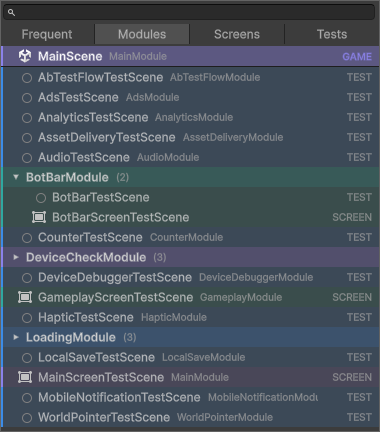
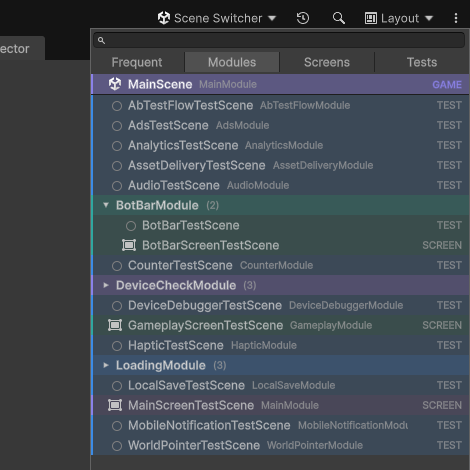
docs: MVCS Structure and FlowIoC Features in Help
The Scene Switcher picture now shows the toolbar button above the list.

diff --git a/Editor/Help/HelpPageCatalog.cs b/Editor/Help/HelpPageCatalog.cs
@@ -40,7 +40,7 @@ namespace FlowIoC.Editor.Help
                     new HelpSection(new DataTypesPage()),
                     new HelpSection(new CodeStylePage()),
                     new HelpSection(new OrderingRootsPage()),
-                    new HelpSection("Structure", FlowIcon.Diagram,
+                    new HelpSection("MVCS Structure", FlowIcon.Diagram,
                         new RootContextPage(),
                         new SignalsPage(),
                         new ControllersPage(),
@@ -48,7 +48,7 @@ namespace FlowIoC.Editor.Help
                         new SystemsServicesPage(),
                         new ViewMediatorPage(),
                         new ConnectorsPage()),
-                    new HelpSection("Features", FlowIcon.Bolt,
+                    new HelpSection("FlowIoC Features", FlowIcon.Bolt,
                         new SceneSwitcherPage()),
                     new HelpSection("Editor Tools", FlowIcon.Wrench,
                         // In the order the Tools/FlowIoC menu lists the panels, so a reader who

diff --git a/Editor/Help/Pages/Features/SceneSwitcherPage.cs b/Editor/Help/Pages/Features/SceneSwitcherPage.cs
@@ -26,7 +26,7 @@ namespace FlowIoC.Editor.Help.Pages.Features
         protected override void DrawBody(HelpPainter painter)
         {
             painter.Image(_images.Get("SceneSwitcherPopup.png"),
-                "The Scene Switcher dropped down from the main toolbar.");
+                "The Scene Switcher button on the main toolbar, and the list it drops down.");
 
             painter.SubHeading("Turning it on");
             painter.Paragraph(

diff --git a/CHANGELOG.md b/CHANGELOG.md
@@ -11,8 +11,8 @@ and this project adheres to [Semantic Versioning](https://semver.org/spec/v2.0.0
 
 - **A `SerializedDictionary` is drawn as key and value pairs**, added and removed together; a key
   already in the dictionary is refused.
-- **Help has a Features section**, after Structure, with a Scene Switcher page: what it lists and
-  how to turn it on in the toolbar.
+- **Help has a FlowIoC Features section**, after MVCS Structure (was Structure), with a Scene
+  Switcher page: what it lists and how to turn it on in the toolbar.
 
 ### Changed
 
